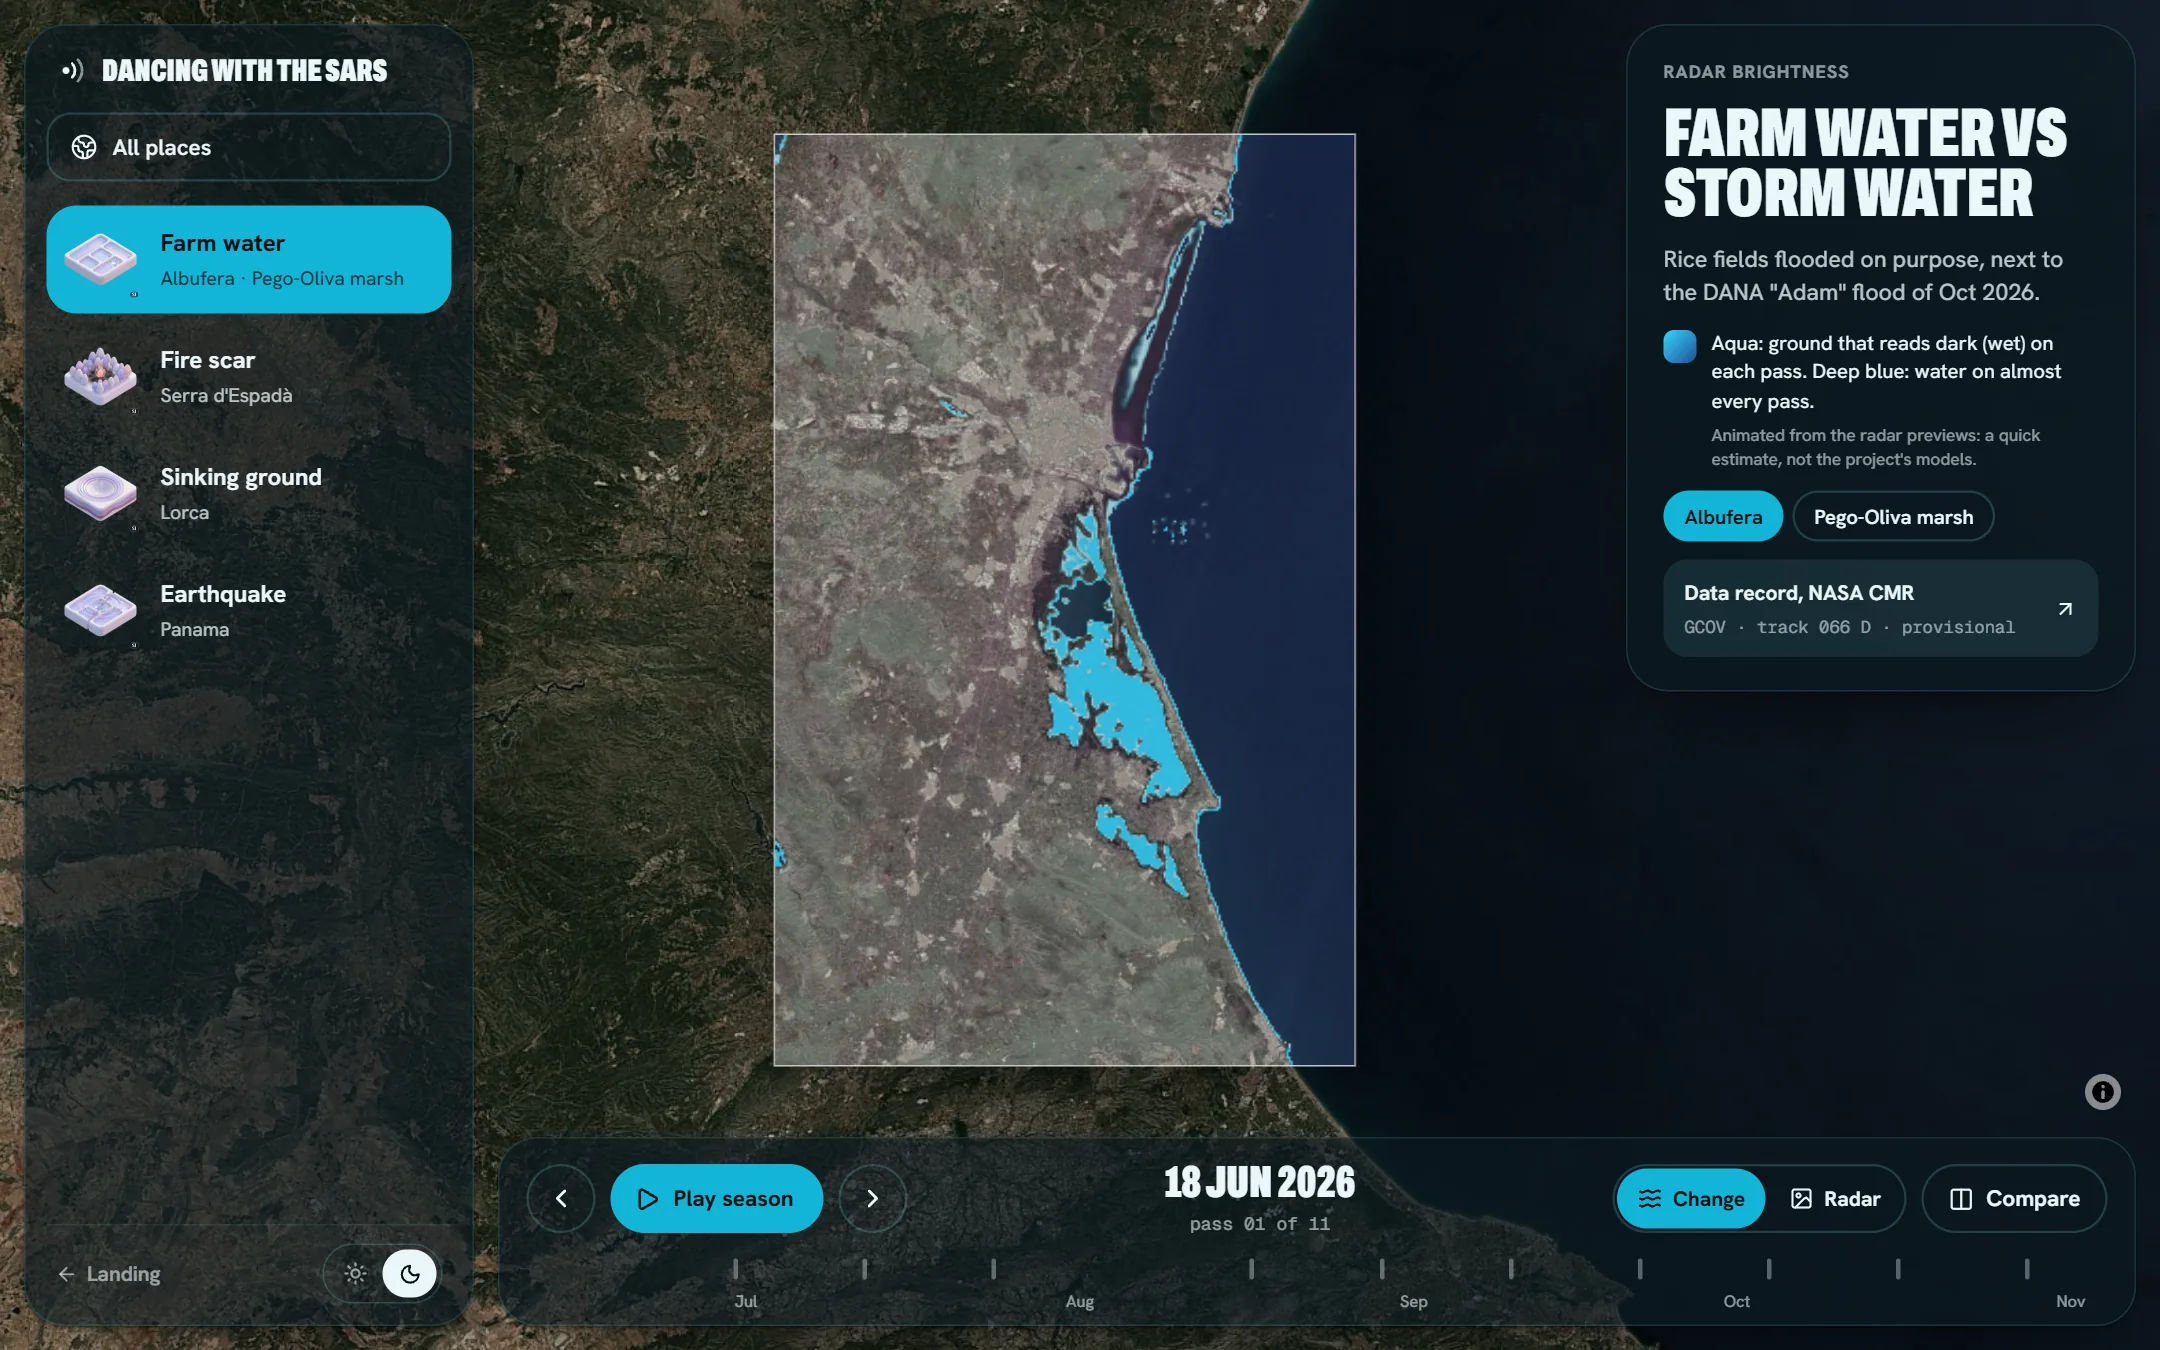
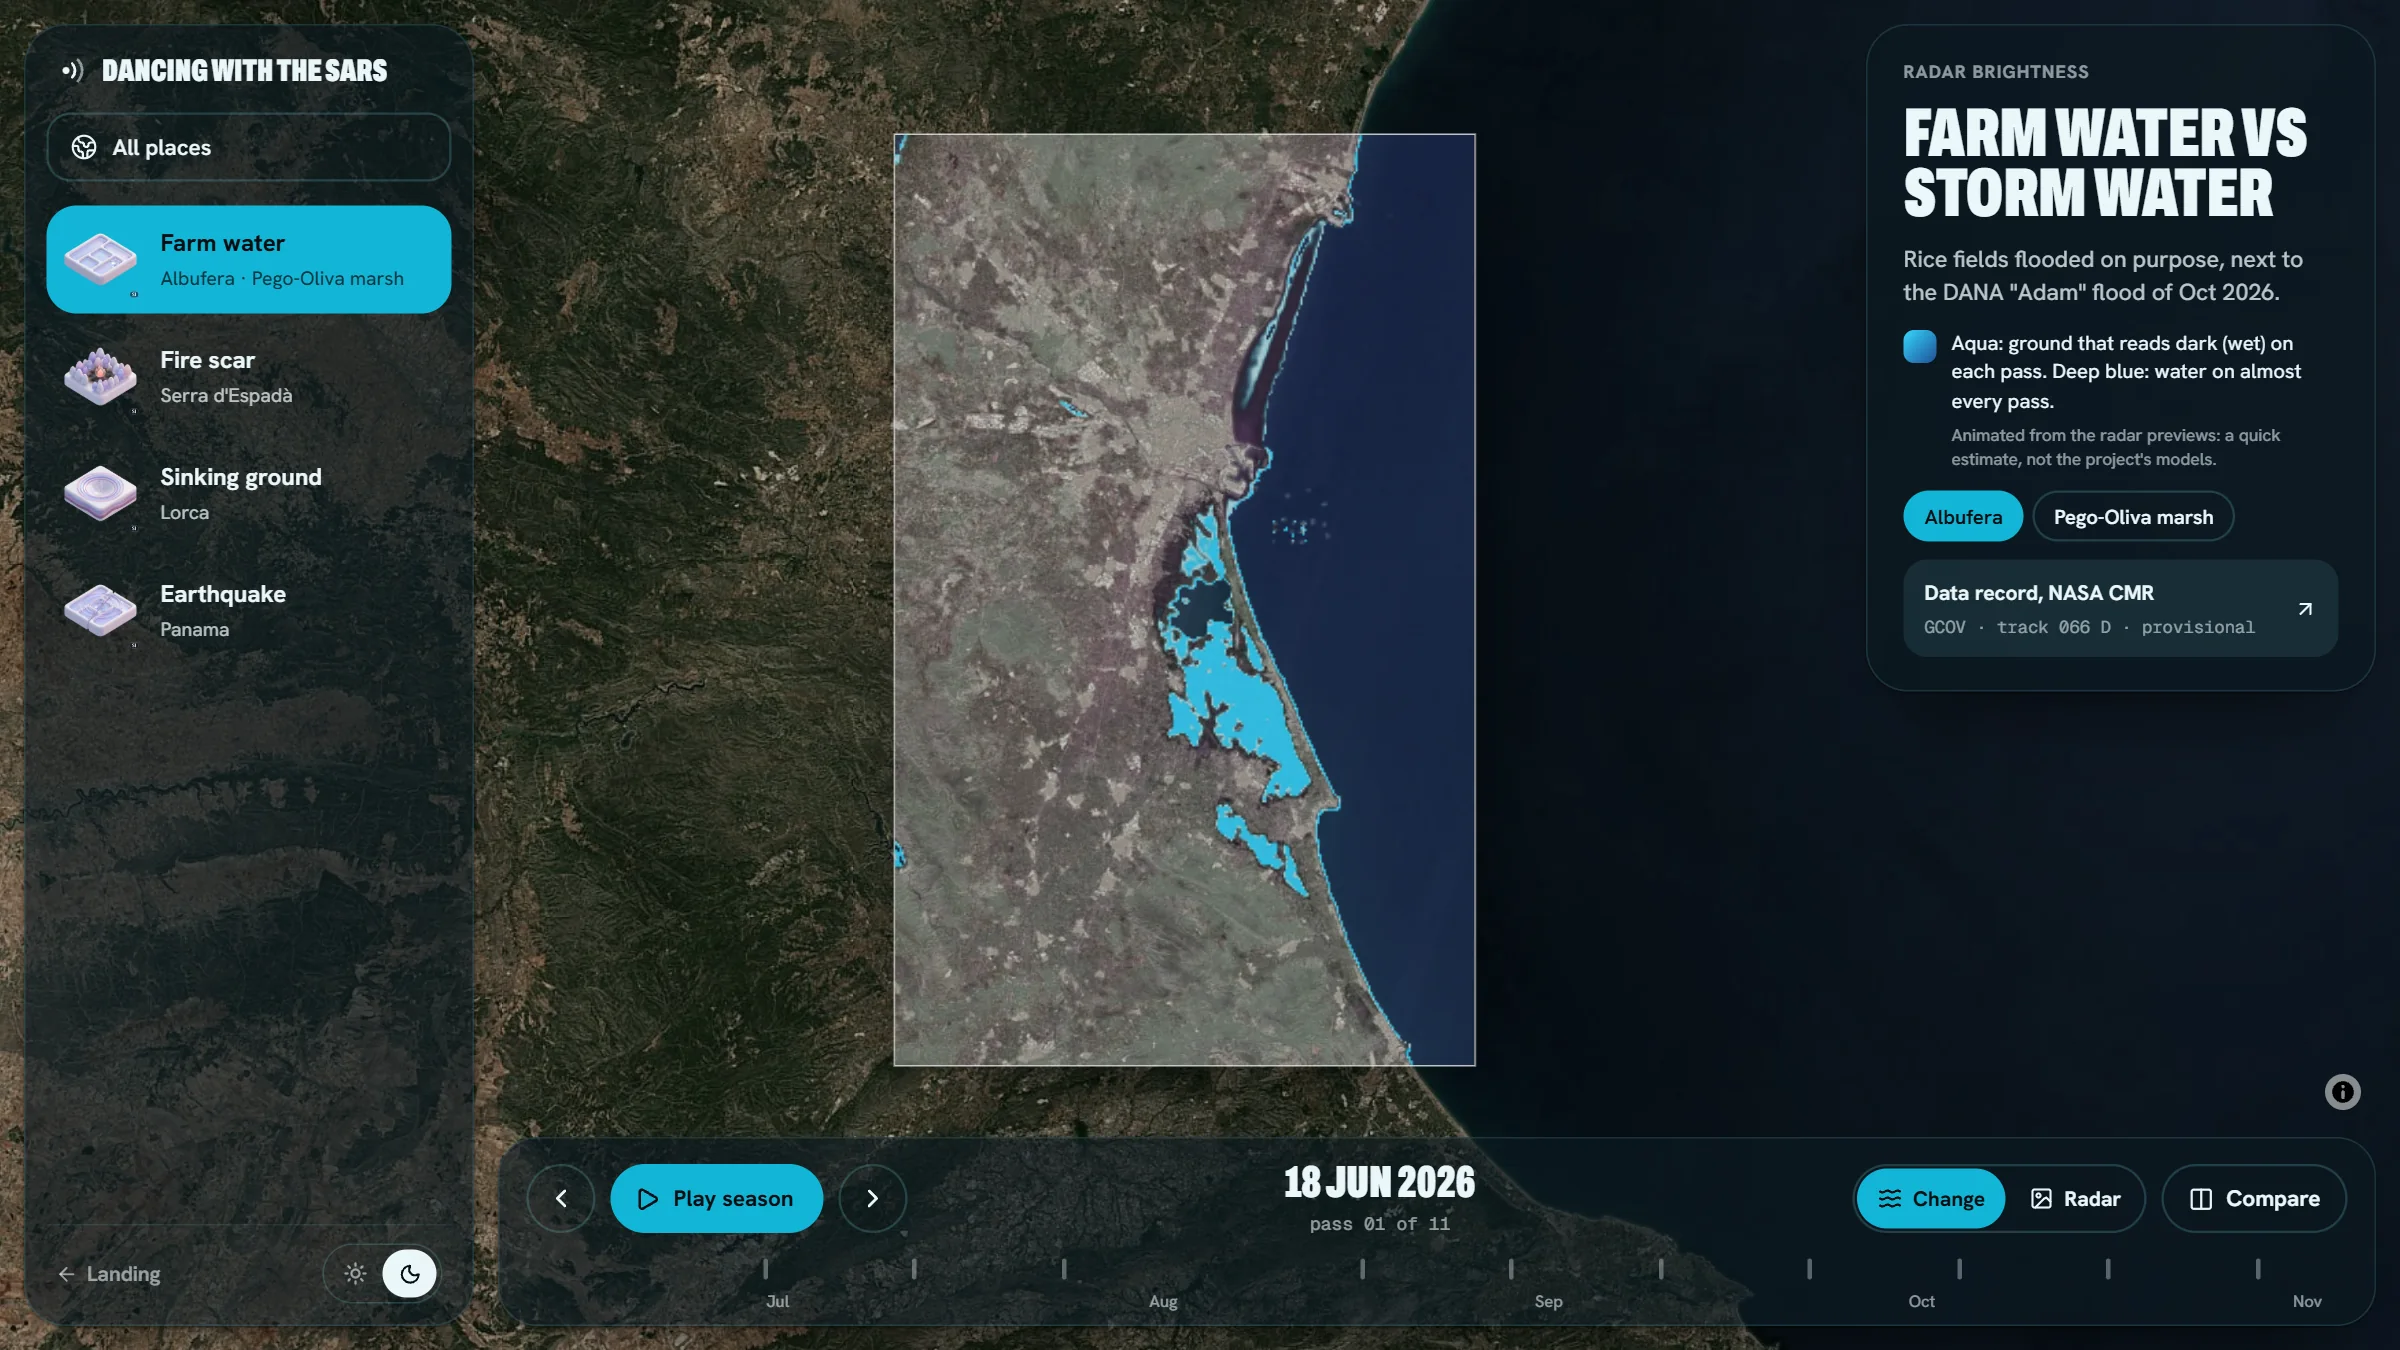
feat(landing): a bigger, wider monitor
The screen is 16:9 now, with the app laid out at 1600 by 900, and the
monitor takes up to 94% of the window (1294px wide on a 1440 by 900
screen, was 1120; 1600px on 1920 by 1080) on a shorter stand, still
clear of the floating navbar. The live app only runs where its desktop
layout applies, and inside the monitor its panels are solid glass, since
background blur renders as blocks when it is drawn scaled. The headline
keeps one row on big screens.

diff --git a/web/src/components/landing.css b/web/src/components/landing.css
@@ -55,7 +55,8 @@
 
 /* ---------- the line and the two buttons, white on the panel in both themes ---------- */
 .hx-head {
-	max-width: 1100px;
+	/* wide enough for the line on one row at its largest size */
+	max-width: 1260px;
 	margin: 0 auto;
 	padding: clamp(104px, 15svh, 150px) 24px 0;
 	text-align: center;
@@ -111,15 +112,15 @@
 	top: 0;
 	height: 100svh;
 	/* the floating navbar keeps the top; the monitor centres in what is left */
-	padding: 76px 0 12px;
+	padding: 72px 0 8px;
 	display: grid;
 	place-items: center;
 	perspective: 2000px;
 	perspective-origin: 50% 0;
 }
 .mon {
-	/* the screen's height plus bezel and stand (about 108px) fits under the navbar */
-	width: min(1120px, 86vw, calc((100svh - 200px) * 1.6));
+	/* a wide 16:9 screen; its height plus bezel and stand (about 92px) fits under the navbar */
+	width: min(1600px, 94vw, calc((100svh - 172px) * 1.7778));
 	margin: 0 auto;
 	transform-origin: 50% 0;
 	will-change: transform;
@@ -132,7 +133,7 @@
 }
 .mon-glass {
 	position: relative;
-	aspect-ratio: var(--ar, 16 / 10);
+	aspect-ratio: var(--ar, 16 / 9);
 	border-radius: clamp(5px, 0.7vw, 10px);
 	overflow: hidden;
 	background: #081217;
@@ -167,14 +168,14 @@
 }
 /* the stand: a short neck and a flat foot, brushed metal by day and dark by night */
 .mon-neck {
-	width: 15%;
-	height: clamp(30px, 4.6vw, 64px);
+	width: 13%;
+	height: clamp(24px, 3.2vw, 46px);
 	margin: 0 auto;
 	background: linear-gradient(90deg, #b9bec3, #e7eaec 45%, #c9cdd1 60%, #a9aeb3);
 	clip-path: polygon(8% 0, 92% 0, 100% 100%, 0 100%);
 }
 .mon-foot {
-	width: 27%;
+	width: 24%;
 	height: clamp(8px, 0.9vw, 12px);
 	margin: 0 auto;
 	border-radius: 0 0 8px 8px;

diff --git a/web/src/components/monitor.tsx b/web/src/components/monitor.tsx
@@ -14,7 +14,7 @@ import { type Chapter, StoryScroll } from './story-scroll'
 export function Monitor({ stories, chapters, track }: { stories: StoryCfg[]; chapters: Chapter[]; track: HTMLElement | null }) {
 	const glass = useRef<HTMLDivElement>(null)
 	const [phone, setPhone] = useState(false)
-	const [size, setSize] = useState({ w: 1440, h: 900 })
+	const [size, setSize] = useState({ w: 1600, h: 900 })
 	const [live, setLive] = useState(false)
 	// the app's season rests while the stories cover it, and the app is not drawn at all once they cover it fully
 	const appShows = useMemo(() => ({ current: true }), [])
@@ -28,8 +28,9 @@ export function Monitor({ stories, chapters, track }: { stories: StoryCfg[]; cha
 		const pick = () => {
 			const p = window.innerWidth < 760
 			setPhone(p)
-			setSize(p ? { w: window.innerWidth, h: Math.round(window.innerHeight * 0.86) } : { w: 1440, h: 900 })
-			setLive(!p)
+			setSize(p ? { w: window.innerWidth, h: Math.round(window.innerHeight * 0.86) } : { w: 1600, h: 900 })
+			// the live app wants its desktop layout, which its own styles give from 900px of window up
+			setLive(window.innerWidth >= 900)
 		}
 		pick()
 		window.addEventListener('resize', pick)

diff --git a/web/src/components/map/map-app.css b/web/src/components/map/map-app.css
@@ -18,9 +18,20 @@
 	--card-w: 340px;
 	--wash: rgb(251 250 247 / 0.06);
 }
-/* inside the landing's hero the app fills its frame, not the window */
+/* inside the landing's monitor the app fills its frame, not the window. It is drawn scaled and tilted there, where
+   background blur renders as blocks, so its panels are solid glass instead: the same colours, no blur. */
 .mp[data-embed] {
 	position: absolute;
+}
+.mp[data-embed] :is(.mp-rail, .mp-card, .mp-dock, .mp-pin span, .mp-swipe-tag) {
+	backdrop-filter: none;
+	-webkit-backdrop-filter: none;
+}
+.mp[data-embed] :is(.mp-rail, .mp-card, .mp-dock) {
+	background: color-mix(in srgb, var(--card) 90%, transparent);
+}
+.mp[data-embed] .mp-pin span {
+	background: color-mix(in srgb, var(--card) 92%, transparent);
 }
 [data-theme="dark"] .mp {
 	--wash: rgb(6 15 19 / 0.34);
